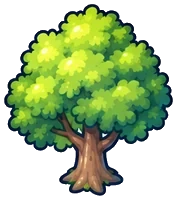
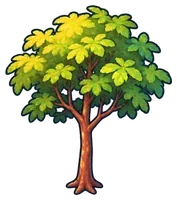
[Codex] Clarify skill node art and retire unused arches and junk (#636)
* Point district badges at useful landmarks

* Differentiate resource artwork and retire ornamental arches and junk

* Record the deliberate map and tree art changes in fixtures

* Update the map fixture without the optional groves

diff --git a/src/render/sprites.js b/src/render/sprites.js
@@ -20,7 +20,7 @@ import { REGION_GIVERS } from '../data/regionQuests.js';
 import { RESIDENTS } from '../data/consequences.js';
 import { PORTRAIT_CROPS } from '../data/portraitcrops.js';
 import { BESTIARY_SPECIES, BESTIARY_BOSSES } from '../data/bestiary.js';
-import { OBJECTS } from '../data/objects.js';
+import { GENERATION_ONLY_SCENERY, OBJECTS } from '../data/objects.js';
 import { drawDiveSpot } from './diveart.js';
 import { drawDigSite, drawRestoreBench } from './digart.js';
 
@@ -2660,7 +2660,7 @@ const WORLD_ART = {
   'obj-stall_food': [56, 50, 16], 'obj-stall_market': [56, 50, 16], 'obj-stall_gem': [56, 50, 16],
   'obj-agility_course': [60, 48, 16], 'obj-agility_balance': [50, 34, 15], 'obj-agility_net': [46, 46, 16],
   'obj-agility_rope': [44, 46, 16], 'obj-agility_ledge': [44, 42, 16], 'obj-agility_zip': [48, 46, 16],
-  'obj-wall': [40, 36, 15], 'obj-ruin': [44, 44, 15], 'obj-fence': [40, 34, 15], 'obj-bush': [34, 30, 14],
+  'obj-wall': [40, 36, 15], 'obj-fence': [40, 34, 15], 'obj-bush': [34, 30, 14],
   'obj-flower': [28, 26, 13], ...Object.fromEntries([1, 2, 3].flatMap((n) => [[`obj-flower-${n}`, [28, 26, 13]], [`obj-bush-${n}`, [34, 30, 14]]])),
   'obj-palm': [50, 66, 15], 'obj-lamp': [24, 54, 15], 'obj-sign': [28, 38, 15],
   'obj-fishing_spot': [42, 30, 12], 'obj-rod_spot': [42, 34, 12], 'obj-sea_rod_spot': [42, 34, 12],
@@ -2707,7 +2707,7 @@ const WORLD_ART = {
   ...Object.fromEntries([0, 1, 2, 3].map((i) => [`obj-fire-${i}`, [32, 42, 14]])),
   ...Object.fromEntries([0, 1, 2, 3, 4].map((i) => [`obj-farm_patch-${i}`, [42, 36, 15]])),
   // Landmarks (landmarks.js): drawn across their footprint, a little wider than it.
-  ...Object.fromEntries(Object.entries(OBJECTS).filter(([, d]) => d.footprint).map(([id, d]) => [`obj-${id}`, [d.footprint[0] * 32 * (d.artScale || 1.1), 999, 16]])),
+  ...Object.fromEntries(Object.entries(OBJECTS).filter(([id, d]) => d.footprint && !GENERATION_ONLY_SCENERY.has(id)).map(([id, d]) => [`obj-${id}`, [d.footprint[0] * 32 * (d.artScale || 1.1), 999, 16]])),
   // Set dressing: one-tile props, most fitted in a 40 px box, a few taller or smaller.
   ...Object.fromEntries(Object.entries(OBJECTS).filter(([, d]) => d.prop).map(([id]) => [`obj-${id}`, [40, 40, 15]])),
   ...Object.fromEntries(Object.entries({
@@ -3574,30 +3574,6 @@ function scenery(ctx, objId, cx, cy, time) {
       ctx.fillStyle = '#caa15a'; rr(ctx, cx - 11, cy - 12, 22, 11, 2); ctx.fill(); line(ctx, OUTLINE, 1.5);
       ctx.strokeStyle = 'rgba(90,58,28,0.7)'; ctx.lineWidth = 1;
       ctx.beginPath(); ctx.moveTo(cx - 7, cy - 8); ctx.lineTo(cx + 7, cy - 8); ctx.moveTo(cx - 7, cy - 5); ctx.lineTo(cx + 5, cy - 5); ctx.stroke();
-      return;
-    }
-    case 'ruin': {
-      drawShadow(ctx, cx, cy + 11, 15, 4.5);
-      // fallen rubble blocks
-      ctx.fillStyle = '#9a948a';
-      rr(ctx, cx - 13, cy + 3, 9, 8, 1.5); ctx.fill(); line(ctx, OUTLINE, 1.2);
-      rr(ctx, cx + 4, cy + 5, 10, 6, 1.5); ctx.fill(); line(ctx, OUTLINE, 1.2);
-      // broken pillar with a jagged snapped top
-      ctx.fillStyle = '#aaa49a';
-      path(ctx, () => { ctx.moveTo(cx - 5, cy + 11); ctx.lineTo(cx - 5, cy - 9); ctx.lineTo(cx - 2, cy - 13); ctx.lineTo(cx + 1, cy - 8); ctx.lineTo(cx + 3, cy - 12); ctx.lineTo(cx + 4.5, cy + 11); });
-      ctx.fill(); line(ctx, OUTLINE, 1.4);
-      // shaded right face + a brighter lit left edge
-      ctx.fillStyle = 'rgba(20,20,26,0.2)'; rr(ctx, cx + 1, cy - 8, 3.5, 19, 1); ctx.fill();
-      ctx.fillStyle = 'rgba(255,255,255,0.14)'; rr(ctx, cx - 5, cy - 9, 1.6, 20, 0.8); ctx.fill();
-      // cracks + brick courses
-      ctx.strokeStyle = 'rgba(34,48,74,0.45)'; ctx.lineWidth = 0.8;
-      ctx.beginPath(); ctx.moveTo(cx - 3, cy - 5); ctx.lineTo(cx - 1, cy - 1); ctx.lineTo(cx - 3, cy + 4);
-      ctx.moveTo(cx - 5, cy + 1); ctx.lineTo(cx + 4, cy + 1); ctx.moveTo(cx - 11, cy + 7); ctx.lineTo(cx - 6, cy + 7); ctx.stroke();
-      // creeping moss
-      ctx.fillStyle = 'rgba(74,128,58,0.6)';
-      ctx.beginPath(); ctx.arc(cx - 3.5, cy + 9, 1.6, 0, Math.PI * 2); ctx.fill();
-      ctx.beginPath(); ctx.arc(cx + 8, cy + 5.5, 1.4, 0, Math.PI * 2); ctx.fill();
-      ctx.beginPath(); ctx.arc(cx - 11, cy + 4.5, 1.2, 0, Math.PI * 2); ctx.fill();
       return;
     }
     default: {

diff --git a/src/data/bestiary.js b/src/data/bestiary.js
@@ -56,7 +56,7 @@ export const BESTIARY_SPECIES = [
     look: 'A wispy figure made of reservoir water and mist, translucent teal with ripples for a face, lily pads and duckweed stuck to its flowing tail and droplets falling off its hands.' },
   // ---- Sentosa Beach ----
   { name: 'Fiddler crab', plural: 'Fiddler crabs', sprite: 'crab', color: '#e0a040', zone: 'Sentosa Beach', aggro: false, levels: [8, 20, 34],
-    drop: { id: 'seaweed', min: 1, max: 3, weight: 10 }, borrow: 'mud_crab', tint: 'sepia(1) saturate(3) hue-rotate(-10deg) brightness(1.1)',
+    drop: { id: 'coins', min: 2, max: 6, weight: 10 }, borrow: 'mud_crab', tint: 'sepia(1) saturate(3) hue-rotate(-10deg) brightness(1.1)',
     lore: 'It waves its one giant claw to impress, or to warn you off its burrow. Mostly to warn you off.',
     look: 'Tiny sand-coloured crab with a blue-and-orange shell and ONE enormous bright orange claw held up proudly (the other claw tiny), tall stalk eyes and a smug little face.' },
   { name: 'Sentosa peafowl', plural: 'Sentosa peafowl', sprite: 'fowl', color: '#2a7ab0', zone: 'Sentosa Beach', aggro: true, levels: [12, 26, 42],
@@ -215,7 +215,7 @@ export const BESTIARY_SPECIES = [
     lore: 'It has sat on the same reef for a hundred years, and its jagged shell snaps shut on careless ankles.',
     look: 'A huge scalloped clam with wavy ridged shell edges, a gleaming iridescent blue-and-turquoise mantle peeking out, a big pearl inside and two sleepy eyes.' },
   { name: 'Hawksbill turtle', plural: 'Hawksbill turtles', sprite: 'turtle', color: '#8a6a3a', zone: 'Southern Islands', aggro: false, levels: [130, 170, 212],
-    drop: { id: 'seaweed', min: 2, max: 5, weight: 10 }, borrow: 'sea_turtle', tint: 'hue-rotate(-40deg) saturate(1.3)',
+    drop: { id: 'coins', min: 4, max: 10, weight: 10 }, borrow: 'sea_turtle', tint: 'hue-rotate(-40deg) saturate(1.3)',
     lore: 'It nests on the quieter beaches of the Southern Islands. Its beak is sharp and it remembers every rude visitor.',
     look: 'Sea turtle with a gorgeous amber-and-brown tortoiseshell pattern, a narrow pointed hawk-like beak, overlapping shell plates and flippers mid-swim.' },
   { name: 'Duyung', plural: 'Duyung', sprite: 'seacreature', color: '#9ab0c0', zone: 'Southern Islands', aggro: true, levels: [140, 180, 215],
@@ -245,7 +245,7 @@ export const BESTIARY_SPECIES = [
     lore: 'Its "ko-EL! ko-EL!" starts at five in the morning and never stops. People have been driven to violence.',
     look: 'Glossy blue-black bird with piercing red eyes, a pale green beak and a long tail, beak wide open mid-shout; very loud energy.' },
   { name: 'Hyacinth tangle', plural: 'Hyacinth tangles', sprite: 'plant', color: '#6a5ac0', zone: 'Punggol Waterway', aggro: true, levels: [50, 82, 110],
-    drop: { id: 'seaweed', min: 1, max: 3, weight: 10 }, borrow: 'pitcher_plant', tint: 'hue-rotate(260deg) saturate(1.2)',
+    drop: { id: 'coins', min: 2, max: 6, weight: 10 }, borrow: 'pitcher_plant', tint: 'hue-rotate(260deg) saturate(1.2)',
     lore: 'A raft of water hyacinth that drifted down the waterway and woke up hungry.',
     look: 'A floating clump of glossy green bulb-leaves topped with pale lilac hyacinth flowers, dangling purple roots for legs and a mouth hidden in the leaves.' },
   // ---- Kranji Farmlands ----

diff --git a/src/render/icons.js b/src/render/icons.js
@@ -346,8 +346,6 @@ import { CON_TIERS, CON_WOOD } from '../data/construction.js';
   I.raw_cobia = rawFish('#5a6a72', '#8a9aa2'); I.cobia = cookedFish('#6a7a82');
   // Bait, junk & treasure
   I.fishing_bait = `<path d="M6 8 q3 -3 6 0 q3 3 6 0" fill="none" stroke="#c06a5a" stroke-width="2.4" stroke-linecap="round"/><path d="M6 13 q3 -3 6 0 q3 3 6 0" fill="none" stroke="#d8806a" stroke-width="2.4" stroke-linecap="round"/><circle cx="18.5" cy="7" r="1.1" fill="${OL}"/>`;
-  I.old_boot = `<path d="M7 5 H12 V13 L18 15 Q20 16 20 18 V20 H6 Q5 20 5 18 V7 Q5 5 7 5 Z" fill="#5a4632" stroke="${OL}" stroke-width="1.1" stroke-linejoin="round"/><path d="M6 18 H20" stroke="${C.woodDk}" stroke-width="1.4"/><path d="M8 7 H11" stroke="${C.woodHi}" stroke-width="1"/>`;
-  I.seaweed = `<path d="M9 21 C6 16 12 14 9 9 C7 5 11 4 11 3" fill="none" stroke="${C.leafDk}" stroke-width="2.2" stroke-linecap="round"/><path d="M15 21 C18 15 12 13 15 8 C17 5 14 4 14 3" fill="none" stroke="${C.leaf}" stroke-width="2.2" stroke-linecap="round"/>`;
   I.pearl = `<circle cx="12" cy="13" r="6" fill="#f0f2f5" stroke="${OL}" stroke-width="1.1"/><circle cx="10" cy="11" r="2.2" fill="#ffffff" opacity=".9"/><path d="M5 16 Q12 21 19 16" fill="none" stroke="#b6c0c8" stroke-width="1"/>`;
   I.birds_nest = `<path d="M4 13 Q12 22 20 13 Q20 18 12 19 Q4 18 4 13 Z" fill="${C.wood}" stroke="${OL}" stroke-width="1.1" stroke-linejoin="round"/><path d="M5 13 Q12 17 19 13" fill="none" stroke="${C.woodDk}" stroke-width="1"/><ellipse cx="9.5" cy="12" rx="2.2" ry="1.7" fill="#f0e7d4" stroke="${OL}" stroke-width="0.8"/><ellipse cx="14" cy="12.5" rx="2.2" ry="1.7" fill="#dfe8c0" stroke="${OL}" stroke-width="0.8"/>`;
   I.fishing_rod = `<path d="M5 20 L19 5" stroke="${C.wood}" stroke-width="2.2" stroke-linecap="round"/><path d="M19 5 L18 12" stroke="#cdd6dd" stroke-width="0.8"/><path d="M18 12 q2 1 0 3" fill="none" stroke="${OL}" stroke-width="1.2"/><circle cx="8" cy="17" r="1.6" fill="${C.gold}" stroke="${OL}" stroke-width="0.8"/>`;
@@ -841,7 +839,7 @@ import { CON_TIERS, CON_WOOD } from '../data/construction.js';
     'raw_boar_meat', 'boar_steak', 'hornbill_casque', 'qilin_mane',
     ...['giant_trevally', 'diamond_trevally', 'hybrid_grouper', 'climbing_perch', 'ikan_keli', 'belida', 'arapaima', 'arowana',
       'milkfish', 'queenfish', 'threadfin', 'white_pomfret', 'coral_trout', 'cobia'].map((f) => `raw_${f}`),
-    'fishing_rod', 'lobster_pot', 'harpoon', 'fishing_bait', 'old_boot', 'seaweed', 'pearl', 'birds_nest', 'satay', 'nasi_lemak',
+    'fishing_rod', 'lobster_pot', 'harpoon', 'fishing_bait', 'pearl', 'birds_nest', 'satay', 'nasi_lemak',
     'merlion_amulet', 'amulet_of_glory', 'mark_of_grace',
   ]);
   // Weapons of the newer classes (pistols, shurikens, canes) and scout leather: painted stickers.

diff --git a/src/render/groundtouch.js b/src/render/groundtouch.js
@@ -30,12 +30,12 @@ const WET = new Set(['Sungei Buloh Wetlands', 'MacRitchie Reservoir', 'Mandai Ra
 const DOORS = new Set(['shophouse_row_mint', 'shophouse_row_peach', 'shophouse_row_butter', 'shophouse_row_lilac',
   'golden_dome_hall', 'hdb_block', 'dragon_playground', 'hawker_centre', 'chinese_temple', 'wet_market',
   'spiky_dome_theatre', 'flower_dome', 'lifeguard_tower', 'lighthouse', 'kusu_turtle_temple', 'stilt_house',
-  'temasek_gate', 'kranji_farmhouse', 'celestial_pavilion']);
+  'kranji_farmhouse', 'celestial_pavilion']);
 // Things you stand at to use: stalls, the bank, ranges, furnaces, anvils, benches, shrines...
 const WORKED = new Set(['stall', 'bank', 'range', 'furnace', 'anvil', 'craft', 'fletch', 'herblore', 'shrine',
   'offering', 'rest', 'transport', 'gate', 'saw', 'kiln', 'build', 'homebench', 'hawkstall']);
-// Walls and ruins darken the ground at their foot (landmarks always do).
-const WALLS = new Set(['wall', 'ruin', 'fence']);
+// Walls darken the ground at their foot (landmarks always do).
+const WALLS = new Set(['wall', 'fence']);
 
 /** [width, height] (px) each touch is drawn at, its foot at the bottom centre. */
 export const TOUCH_DETAILS = {
@@ -83,7 +83,7 @@ export function touchPlan(world, tx0, ty0, tx1, ty1, opts = {}) {
       walls.push(o);
       // Moss at the foot of old walls where it's damp or wild.
       const z = world.zoneAt ? world.zoneAt(o.x, o.y) : null, zn = z ? z.name : '';
-      if ((WET.has(zn) || FOREST.has(zn) || o.objId === 'ruin') && tileHash(o.x, o.y, 1102) < 0.4 * k && ground(o.x, o.y + 1) !== null) {
+      if ((WET.has(zn) || FOREST.has(zn)) && tileHash(o.x, o.y, 1102) < 0.4 * k && ground(o.x, o.y + 1) !== null) {
         bits.push({ id: 'moss', px: o.x * TILE + 8 + tileHash(o.x, o.y, 1103) * 16, py: (o.y + 1) * TILE + 3, flip: tileHash(o.x, o.y, 1104) < 0.5, s: 0.9 });
       }
     } else if (WORKED.has(o.def.type)) {

diff --git a/src/data/objects.js b/src/data/objects.js
@@ -733,6 +733,9 @@ export const OBJECTS = {
     examine: 'A stall of your own, with a wok, a till and a queue of hungry townsfolk.' },
 };
 
+// Preserve the footprints that seeded subsequent placements in the old map.
+export const GENERATION_ONLY_SCENERY = new Set(['ruin', 'temasek_gate']);
+
 // ---------------- Landmarks and set dressing (landmarks.js places them) ----------------
 // Painted set pieces that make each region recognisable. A landmark covers a
 // `footprint` of [wide, deep] tiles, standing on its front-left tile, and
@@ -812,7 +815,6 @@ const PROPS = {
   kelong_net: ['Drying net', 'A fishing net hung up to dry between two poles.'],
   kelong_stilts: ['Kelong stilts', 'Rope-bound stilts, all that is left of an old kelong.'],
   buoy_pile: ['Buoys', 'A heap of floats and a coil of rope.'],
-  crab_trap: ['Crab trap', 'A woven trap. Someone is home.'],
   boardwalk: ['Boardwalk', 'Planks out over the water.'],
   boardwalk_corner: ['Boardwalk', 'The boardwalk turns here.'],
   trail_signpost: ['Trail signpost', 'Signs to the summit, the stream and the valley.'],
@@ -822,7 +824,6 @@ const PROPS = {
   hay_bale: ['Hay bale', 'A round bale of golden hay.'],
   water_trough: ['Water trough', 'A stone trough with a tap, for the goats.'],
   durian_cart: ['Durian cart', 'A cart of durians. You can smell it from here.'],
-  fish_rack: ['Fish rack', 'Fish drying in the sun on a bamboo rack.'],
   oil_drums: ['Oil drums', 'Rusty drums stacked on the wharf.'],
   mooring_bollard: ['Mooring bollard', 'An iron bollard with a heavy rope round it.'],
   broken_pillar: ['Broken pillar', 'A carved pillar, broken off and wrapped in vines.'],

diff --git a/src/game/save.js b/src/game/save.js
@@ -299,6 +299,7 @@ export function loadGame(game) {
     return false;
   }
   try {
+    exchangeRetiredLoot(data);
     loadFields(game, data);
     loadFirstJourney(game, data.firstJourney);
     game.islandLife = data.islandLife ? restoreIslandLife(data.islandLife) : undefined;
@@ -311,6 +312,31 @@ export function loadGame(game) {
     throw err;
   }
   return true;
+}
+
+// Retired fishing junk is exchanged at its coin value. Send the player's
+// copies to the bank so even a full pack can load without losing anything.
+function exchangeRetiredLoot(data) {
+  let credited = 0;
+  const remove = (entry) => {
+    if (entry?.id !== 'old_boot' && entry?.id !== 'seaweed') return entry;
+    if (Number.isFinite(entry.qty) && entry.qty > 0) credited += Math.floor(entry.qty) * (entry.id === 'seaweed' ? 2 : 1);
+    return null;
+  };
+  if (Array.isArray(data.inventory)) data.inventory = data.inventory.map(remove);
+  if (Array.isArray(data.bank)) data.bank = data.bank.map(remove).filter(Boolean);
+  if (Array.isArray(data.home?.chest)) data.home.chest = data.home.chest.map(remove).filter(Boolean);
+  if (credited) {
+    if (!Array.isArray(data.bank)) data.bank = [];
+    data.bank.push({ id: 'coins', qty: credited });
+  }
+
+  const grave = data.play?.grave;
+  if (Array.isArray(grave?.items)) {
+    credited = 0;
+    grave.items = grave.items.map(remove).filter(Boolean);
+    if (credited) grave.coins = Math.max(0, Number(grave.coins) || 0) + credited;
+  }
 }
 
 function loadFields(game, data) {

diff --git a/src/data/world.js b/src/data/world.js
@@ -4,6 +4,7 @@
 
 import { NPCS, MONSTER_IDS, BOSS_IDS, EXTRA_MONSTER_IDS, EXTRA_BOSS_IDS, MORE_MONSTER_IDS, MORE_BOSS_IDS, stretchLevel } from './npcs.js';
 import { STATIONS } from './transport.js';
+import { GENERATION_ONLY_SCENERY } from './objects.js';
 import { placeLandmarks } from './landmarks.js';
 import { placeGroves, QUARRY_PLAN } from './groves.js';
 import { assignFishSpots } from './fishspots.js';
@@ -1501,12 +1502,14 @@ export function buildWorld({ groves: withGroves = true } = {}) {
     width: W,
     height: H,
     terrain,
-    objects,
+    // The old arches still reserve the same sites during seeded world
+    // generation. Drop them before play so removing scenery shifts no nodes.
+    objects: objects.filter((o) => !GENERATION_ONLY_SCENERY.has(o.objId)),
     npcSpawns,
     zones,
     towns,   // the outer towns' rectangles (the World Boss keeps its distance)
     resourceZones,   // named places dense with one life skill's nodes (see the block above the border fence)
-    landmarks,       // the regions' set pieces, { objId, x, y, region } (landmarks.js)
+    landmarks: landmarks.filter((o) => !GENERATION_ONLY_SCENERY.has(o.objId)), // the regions' set pieces, { objId, x, y, region } (landmarks.js)
     groves,          // patches thick with one kind of tree, or of rock (kind 'quarry'), { id, name, objId, kind, region, cx, cy, x0..y1, count } (groves.js)
     spawnPoint: { x: 58, y: 55 },
     respawnPoint: { x: 58, y: 55 },

diff --git a/src/data/landmarks.js b/src/data/landmarks.js
@@ -51,7 +51,7 @@ export const LANDMARK_PLAN = [
     props: [['orchid_planter', 3], ['topiary', 3], ['bay_bench', 1]] },
   { region: 'Changi Coast', at: [290, 40], reach: 20,
     lm: [['kelong', 'water']],
-    props: [['sampan', 2, 'water'], ['kelong_stilts', 2, 'water'], ['kelong_net', 2, 'shore'], ['buoy_pile', 1, 'shore'], ['crab_trap', 2, 'shore']] },
+    props: [['sampan', 2, 'water'], ['kelong_stilts', 2, 'water'], ['kelong_net', 2, 'shore'], ['buoy_pile', 1, 'shore']] },
   { region: 'Sentosa Beach', at: [60, 95], reach: 34,
     lm: [['lifeguard_tower', 'sand']],
     props: [['beach_umbrella_red', 2, 'sand'], ['beach_umbrella_teal', 2, 'sand'], ['deck_chair', 3, 'sand'], ['leaning_palm', 2, 'sand'], ['surf_rack', 1, 'sand']] },
@@ -61,7 +61,7 @@ export const LANDMARK_PLAN = [
     lm: ['kusu_turtle_temple'] },
   { region: 'Pulau Ubin', at: [190, 44], reach: 18,
     lm: ['stilt_house'],
-    props: [['rattan_chair', 1], ['bicycle', 1], ['durian_cart', 1], ['fish_rack', 1, 'shore'], ['laundry_pole', 1]] },
+    props: [['rattan_chair', 1], ['bicycle', 1], ['durian_cart', 1], ['laundry_pole', 1]] },
   { region: 'MacRitchie Reservoir', at: [36, 52], reach: 18,
     props: [['boardwalk', 2, 'water'], ['boardwalk_corner', 1, 'water']] },
   { region: 'MacRitchie Reservoir', at: [26, 74], reach: 18,

diff --git a/src/data/items.js b/src/data/items.js
@@ -352,10 +352,8 @@ const RAW = {
   fish_head_curry: { name: 'Fish head curry', icon: '🍛', value: 1200, heal: 34, meal: { ms: 180000, fx: { boss: 0.12, reduce: 0.05 } }, artFrom: ['seafood_stew', 'sepia(0.5) saturate(2) hue-rotate(-25deg)'],
     examine: 'A whole fish head in a fiery curry. Heals 34; for 3 minutes +12% damage to bosses and champions and 5% less damage taken.' },
 
-  // ---- Fishing bait, junk & treasure ----
+  // ---- Fishing bait & treasure ----
   fishing_bait: { name: 'Fishing bait', icon: '🪱', value: 2, stackable: true, tags: ['bait'], examine: 'Improves your catch rate when fishing.' },
-  old_boot: { name: 'Old boot', icon: '🥾', value: 1, examine: 'You fished up someone\'s old boot. Charming.' },
-  seaweed: { name: 'Seaweed', icon: '🌿', value: 2, examine: 'A clump of soggy seaweed.' },
   pearl: { name: 'Pearl', icon: '🦪', value: 600, examine: 'A lustrous pearl from an oyster.' },
   birds_nest: { name: "Bird's nest", icon: '🪺', value: 0, examine: 'Knocked from a tree while chopping — open it for a surprise.' },
 

diff --git a/src/game/skilling.js b/src/game/skilling.js
@@ -331,15 +331,15 @@ export function resolveFish(game, action) {
   return true; // fishing spots never deplete
 }
 
-// A small chance while fishing to pull up junk or treasure (incl. a
+// A small chance while fishing to pull up spare change or treasure (incl. a
 // message-in-a-bottle clue scroll) — keeps fishing lively and rewarding.
 function fishOddity(game, obj) {
   const fc = objCenter(obj);
   game.spawnPoof(fc.x, fc.y, '#bfe3ff');
   const r = Math.random();
   if (r < 0.4) {
-    const junk = Math.random() < 0.5 ? 'old_boot' : 'seaweed';
-    if (game.inventory.canAdd(junk, 1) > 0) { game.inventory.add(junk, 1); game.msg(`You fish up some ${getItem(junk).name.toLowerCase()}. Charming.`); }
+    const coins = Math.random() < 0.5 ? 1 : 2;
+    if (game.inventory.add('coins', coins)) game.msg('A little loose change comes up with your catch.');
   } else if (r < 0.85) {
     if (Math.random() < 0.35 && game.inventory.canAdd('pearl', 1) > 0) {
       game.inventory.add('pearl', 1); game.skills.addXp('fishing', 25);

diff --git a/src/data/districtVisuals.js b/src/data/districtVisuals.js
@@ -20,10 +20,10 @@ export const DISTRICT_VISUALS = {
   'Kranji Farmlands': ['#756420', '#F6EFCE', 'Kranji farmhouse', 'obj-kranji_farmhouse.webp'],
   'Mandai Rainforest': ['#2C6946', '#DBEEDC', 'Canopy course', 'obj-canopy_course_treetop_walk.webp'],
   'Tuas Docklands': ['#4D5C71', '#E4EDF0', 'Gantry crane', 'obj-gantry_crane.webp'],
-  'Temasek Ruins': ['#825033', '#F2E7D6', 'Temasek gate', 'obj-temasek_gate.webp'],
+  'Temasek Ruins': ['#825033', '#F2E7D6', 'Palace of Temasek', 'obj-temasek_palace_dig.webp'],
   'The Celestial Peaks': ['#565791', '#EBE8FA', 'Celestial pavilion', 'obj-celestial_pavilion.webp'],
   'Pulau Hantu': ['#685173', '#EEE6F1', 'Ghost lanterns', 'obj-ghost_lantern.webp'],
-  'The Wilderness': ['#843F38', '#F5E4DC', 'Ruined walls', 'obj-ruin.webp'],
+  'The Wilderness': ['#843F38', '#F5E4DC', 'Stone barricades', 'obj-wall.webp'],
 };
 
 export function districtVisual(name) {

diff --git a/src/data/npcs.js b/src/data/npcs.js
@@ -372,7 +372,7 @@ const MORE_BASES = [
   ['Kancil', 'beast', '#b08050', 'Pulau Ubin', false, [6, 16, 32], { id: 'raw_venison', weight: 14 }],
   ['Kunang-kunang', 'wisp', '#d8f070', 'Pulau Ubin', true, [10, 24, 42], null],
   ['Shore pit viper', 'serpent', '#5a9a4a', 'Sungei Buloh Wetlands', true, [15, 32, 52], null],
-  ['Mangrove terrapin', 'turtle', '#6a7a4a', 'Sungei Buloh Wetlands', false, [12, 28, 48], { id: 'seaweed', min: 1, max: 3, weight: 10 }],
+  ['Mangrove terrapin', 'turtle', '#6a7a4a', 'Sungei Buloh Wetlands', false, [12, 28, 48], { id: 'coins', min: 2, max: 6, weight: 10 }],
   ['Lumpur slime', 'slime', '#6a5a3a', 'Sungei Buloh Wetlands', false, [10, 26, 45], { id: 'clay', min: 1, max: 4, weight: 12 }],
   ['Colugo', 'bat', '#8a7a6a', 'Jurong Forest', false, [22, 40, 62], null],
   ['Forest scorpion', 'scorpion', '#2a2a3a', 'Jurong Forest', true, [28, 48, 72], null],
